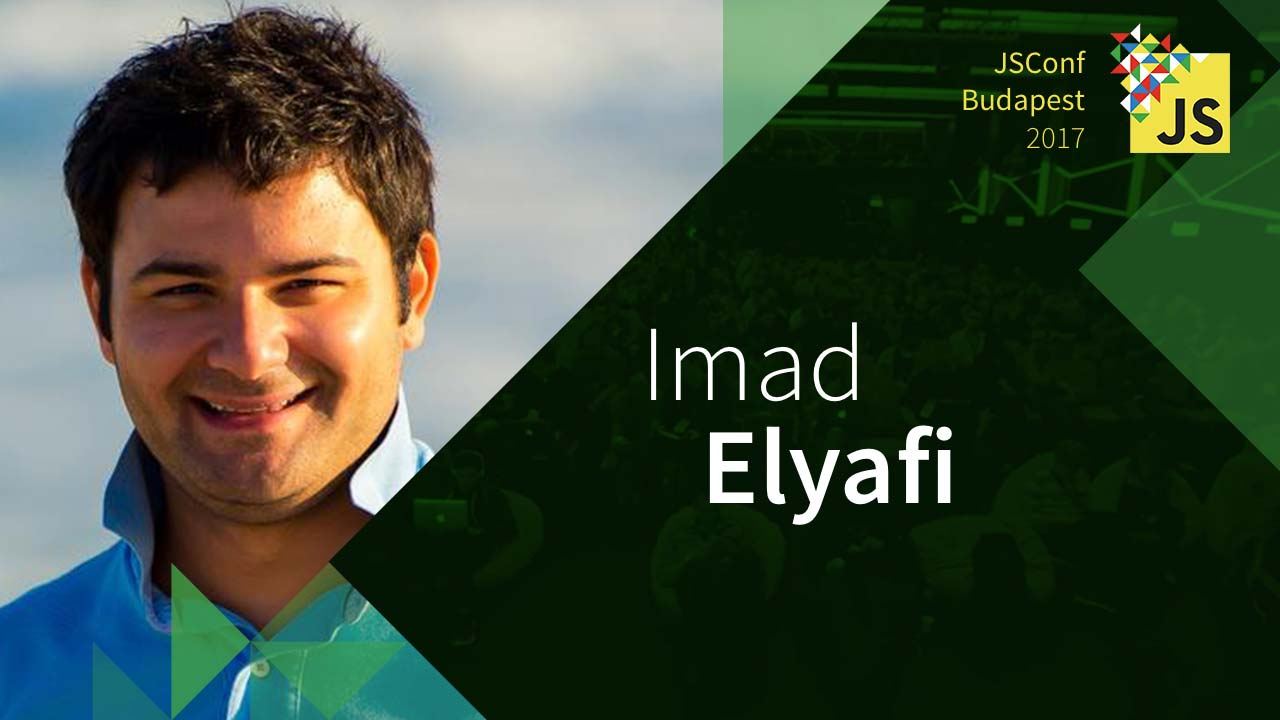
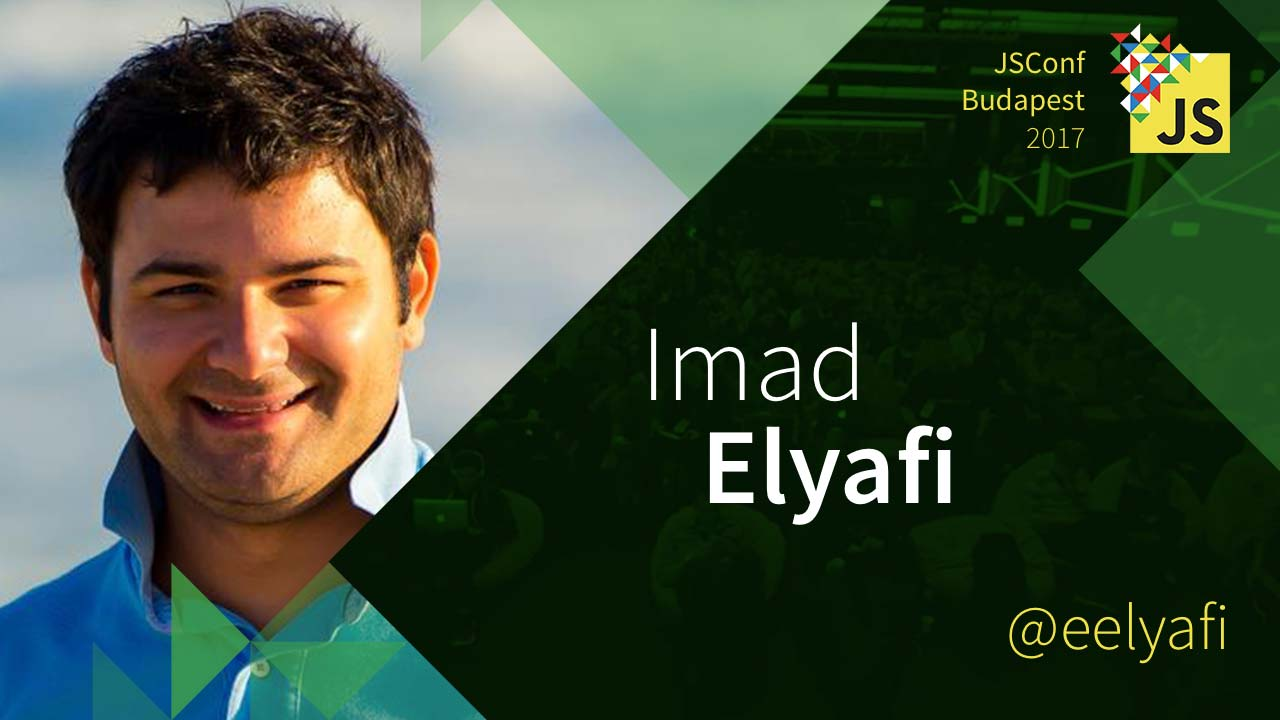
start announcing speakers

Changed region(s): [[0.3125, 0.0, 0.5625, 0.275], [0.7812, 0.825, 0.9688, 0.9167]]

diff --git a/_layouts/home.html b/_layouts/home.html
@@ -81,6 +81,10 @@
                 </div>
                 {% endif %}
                 {% endfor %}
+
+                <div class="text-center">
+                    <p>More speakers coming soon...</p>
+                </div>
             </div>
         </div>
 
@@ -110,10 +114,6 @@
                             <h3 class="update__title">
                                 <a href="{{ item.url }}">{{ item.title }}</a>
                             </h3>
-                            <!-- div class="update__date">
-                                <span class="update__date-month">{{ item.date | date: "%b" }}</span>
-                                <span class="update__date-day">{{ item.date | date: "%-d" }}</span>
-                            </div -->
                         </li>
                         {% endif %}
                         {% endfor %}

diff --git a/_speakers/imad-elyafi.md b/_speakers/imad-elyafi.md
@@ -4,7 +4,7 @@ order: 3
 title: Migrating Pinterest profiles to React
 image: /assets/speakers/imad.jpg
 name: Imad Elyafi
-twitter:
+twitter: eelyafi
 from: San Francisco, USA
 company: Pinterest
 decor: 3
